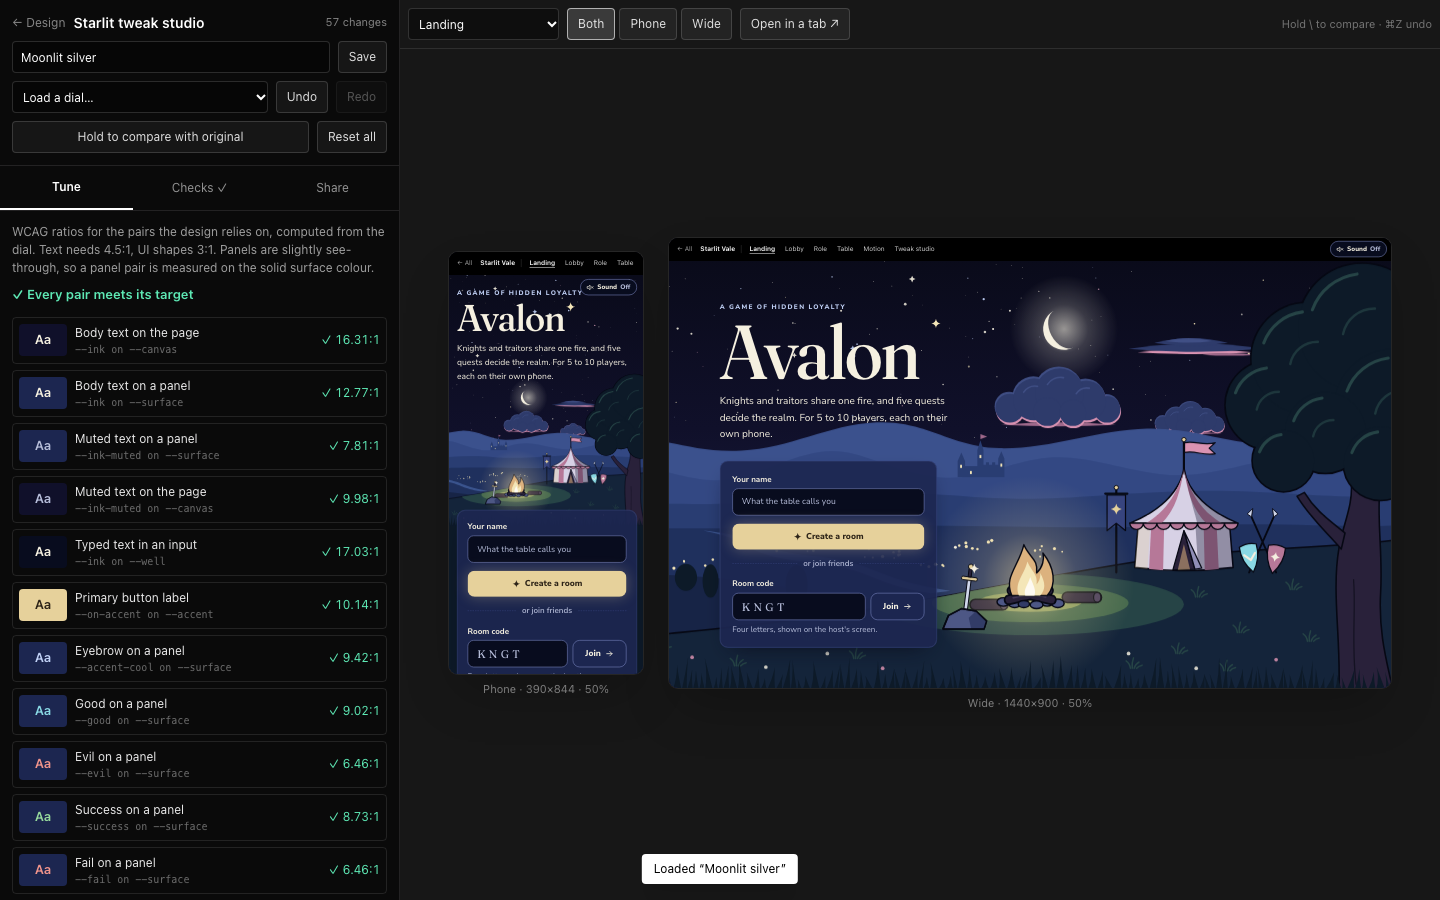
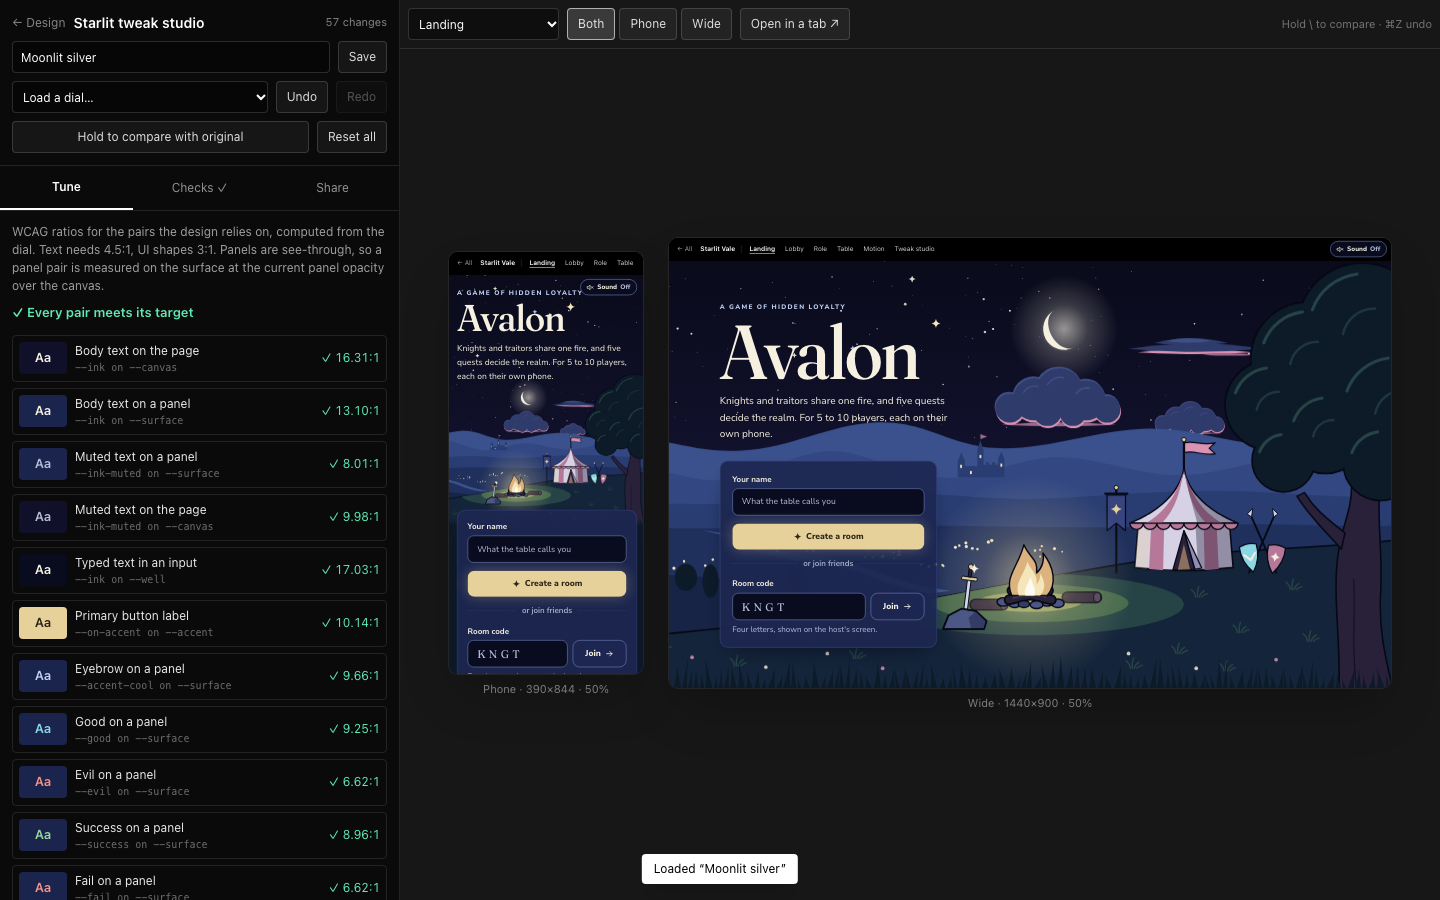
fix(design): harden the tweak studio's inputs and share links
- An emptied number box no longer writes an invalid value.
- A share link saves the dial it replaces, applies once and leaves the
  address; values that could break out of the stylesheet are dropped.
- Panel contrast is measured on the panel at its opacity over the canvas.
- e2e now covers sliders, ambient durations and tempo, share links and
  unsafe values, and passes against vite dev as well as the build.

Claude-Session: https://claude.ai/code/session_017rvMnjyMzxcMV82a8yoRz8

Changed region(s): [[0.0, 0.2489, 0.2812, 1.0]]

diff --git a/e2e/studio.e2e.ts b/e2e/studio.e2e.ts
@@ -24,6 +24,14 @@ async function themeVar(page: Page, name: string): Promise<string> {
   );
 }
 
+/** The generated stylesheet. toContainText cannot see inside a <style>. */
+function tweakCss(page: Page): Promise<string> {
+  return page.evaluate(
+    () =>
+      document.querySelector("style[data-starlit-tweaks]")?.textContent ?? "",
+  );
+}
+
 async function openStudio(page: Page): Promise<void> {
   await page.goto("/design/studio");
   await page.evaluate(() => localStorage.clear());
@@ -98,23 +106,22 @@ test("a proposed dial applies, keeps wide values separate, and travels in a link
     .selectOption({ label: "Storybook bold" });
   await expect(page.getByTestId("change-count")).not.toHaveText("0 changes");
 
-  // Storybook bold only enlarges seats at the wide breakpoint.
-  await expect.poll(() => themeVar(page, "--seat-size")).toBe("52px");
-  const wide = page.frame({ url: /\/design\/starlit/ });
-  const frames = page
-    .frames()
-    .filter((f) => f.url().includes("/design/starlit"));
-  const wideSeat = await Promise.all(
-    frames.map((f) =>
-      f.evaluate(() =>
-        getComputedStyle(document.querySelector(".theme-starlit")!)
-          .getPropertyValue("--seat-size")
-          .trim(),
-      ),
-    ),
-  );
-  expect(wide).toBeTruthy();
-  expect(wideSeat.sort()).toEqual(["52px", "76px"]);
+  // Storybook bold only enlarges seats at the wide breakpoint: the phone
+  // frame keeps 52px, the wide frame gets 76px.
+  const seatSizes = () =>
+    Promise.all(
+      page
+        .frames()
+        .filter((f) => f.url().includes("/design/starlit"))
+        .map((f) =>
+          f.evaluate(() =>
+            getComputedStyle(document.querySelector(".theme-starlit")!)
+              .getPropertyValue("--seat-size")
+              .trim(),
+          ),
+        ),
+    ).then((sizes) => sizes.sort());
+  await expect.poll(seatSizes).toEqual(["52px", "76px"]);
 
   // A share link opens the dial in a fresh browser profile.
   await page.getByRole("tab", { name: "Share" }).click();
@@ -149,4 +156,126 @@ test("the prototype is plain Starlit when the studio was never used", async ({
   await page.reload();
   await expect(page.locator("main").first()).toBeVisible();
   await expect(page.locator("style[data-starlit-tweaks]")).toHaveCount(0);
+});
+
+test("sliders and number boxes write valid values, and an emptied box is ignored", async ({
+  page,
+}) => {
+  await openStudio(page);
+  await page
+    .getByRole("searchbox", { name: "Search tokens" })
+    .fill("panel-opacity");
+  const row = page.locator('[data-token="--panel-opacity"]');
+  await row.getByRole("slider", { name: "Panel opacity" }).fill("60");
+  await expect.poll(() => themeVar(page, "--panel-opacity")).toBe("60%");
+
+  const box = row.getByRole("spinbutton", { name: "Panel opacity value" });
+  await box.fill("");
+  await expect.poll(() => themeVar(page, "--panel-opacity")).toBe("60%");
+  await box.fill("75");
+  await expect.poll(() => themeVar(page, "--panel-opacity")).toBe("75%");
+  await expect(
+    row.getByRole("slider", { name: "Panel opacity" }),
+  ).toBeVisible();
+});
+
+test("ambient motion keeps its durations and follows the tempo dial", async ({
+  page,
+}) => {
+  await openStudio(page);
+  const frame = page.frame({ url: /\/design\/starlit/ });
+  if (!frame) throw new Error("No preview frame");
+  const durations = () =>
+    frame.evaluate(() => {
+      const of = (selector: string) => {
+        const el = document.querySelector(selector);
+        return el ? getComputedStyle(el).animationDuration : "missing";
+      };
+      return {
+        shoot: of(".sl-shooting-star"),
+        drift: of(".sl-drift:not(.sl-drift--slow)"),
+        driftSlow: of(".sl-drift--slow"),
+        flame: of(".sl-flame:not(.sl-flame--inner)"),
+        glow: of(".sl-fire-glow"),
+      };
+    });
+  const before = await durations();
+  expect(before).toMatchObject({
+    shoot: "19s",
+    drift: "110s",
+    driftSlow: "160s",
+    flame: "1.3s",
+    glow: "3.4s",
+  });
+
+  // A twinkling star keeps its own duration (3 to 7.5s) at tempo 1.
+  const twinkle = await frame.evaluate(() => {
+    const el = document.querySelector<SVGElement>(".sl-twinkle");
+    return el
+      ? [
+          el.style.getPropertyValue("--twinkle-dur"),
+          getComputedStyle(el).animationDuration,
+        ]
+      : null;
+  });
+  expect(twinkle).not.toBeNull();
+  expect(twinkle?.[0]).toBe(twinkle?.[1]);
+
+  await page
+    .getByRole("searchbox", { name: "Search tokens" })
+    .fill("ambient-tempo");
+  await page
+    .locator('[data-token="--ambient-tempo"]')
+    .getByRole("spinbutton")
+    .fill("2");
+  await expect.poll(durations).toMatchObject({
+    shoot: "38s",
+    drift: "220s",
+    driftSlow: "320s",
+    flame: "2.6s",
+    glow: "6.8s",
+  });
+});
+
+test("a share link keeps the dial it replaces and applies only once", async ({
+  page,
+  context,
+}) => {
+  await openStudio(page);
+  await page
+    .getByRole("combobox", { name: "Load a preset" })
+    .selectOption({ label: "Hearthside" });
+  await page.getByRole("tab", { name: "Share" }).click();
+  await context.grantPermissions(["clipboard-read", "clipboard-write"]);
+  await page.getByRole("button", { name: "Copy share link" }).click();
+  const hearthside = await page.evaluate(() => navigator.clipboard.readText());
+
+  // Move on to another dial, then open the Hearthside link in this browser.
+  await page
+    .getByRole("combobox", { name: "Load a preset" })
+    .selectOption({ label: "Moonlit silver" });
+  const target = new URL(hearthside);
+  await page.goto(target.pathname + target.search);
+  await expect(page.locator("main").first()).toBeVisible();
+  await expect.poll(() => tweakCss(page)).toContain("--display-wonk: 1");
+  await expect.poll(() => page.url()).not.toContain("tweaks=");
+
+  const saved = await page.evaluate(() =>
+    localStorage.getItem("avalon:starlit-tweaks:saved"),
+  );
+  expect(saved).toContain("Moonlit silver (before a shared link");
+});
+
+test("unsafe values in a share link are dropped", async ({ page }) => {
+  await page.goto("/design/starlit");
+  await page.evaluate(() => localStorage.clear());
+  const evil = {
+    version: 1,
+    name: "x",
+    vars: { "--accent": "red;} body{display:none", "--ink": "#ff0000" },
+  };
+  const code = Buffer.from(JSON.stringify(evil)).toString("base64url");
+  await page.goto(`/design/starlit?tweaks=${code}`);
+  await expect.poll(() => tweakCss(page)).toContain("--ink: #ff0000");
+  expect(await tweakCss(page)).not.toContain("display");
 });

diff --git a/src/design/tweaks/state.ts b/src/design/tweaks/state.ts
@@ -10,6 +10,7 @@ import {
   NO_SHIFT,
   contrastRatio,
   isIdentityShift,
+  mixHex,
   normalizeHex,
   shiftHex,
   type ColorShift,
@@ -55,11 +56,24 @@ function isRecord(value: unknown): value is Record<string, unknown> {
   return typeof value === "object" && value !== null && !Array.isArray(value);
 }
 
+/**
+ * A token value that is safe to write into the generated stylesheet: it
+ * cannot end the declaration, open or close a block, or close the <style>.
+ * Dials arrive from share links, so this is checked on the way in and out.
+ */
+export function isSafeValue(value: string): boolean {
+  return value.trim() !== "" && !/[;{}<>]/.test(value);
+}
+
+function isTokenKey(key: string): boolean {
+  return /^--[\w-]+(@wide)?$/.test(key);
+}
+
 function stringRecord(value: unknown): Record<string, string> {
   if (!isRecord(value)) return {};
   const out: Record<string, string> = {};
   for (const [k, v] of Object.entries(value)) {
-    if (typeof v === "string" && k.startsWith("--")) out[k] = v;
+    if (typeof v === "string" && isTokenKey(k) && isSafeValue(v)) out[k] = v;
   }
   return out;
 }
@@ -224,6 +238,7 @@ export function buildCss(catalog: Catalog, state: TweakState): string {
   const every: string[] = [];
   const wide: string[] = [];
   for (const change of listChanges(catalog, state)) {
+    if (!isSafeValue(change.to)) continue;
     const line = `  ${change.token}: ${change.to};`;
     const def = catalog.get(change.token);
     if (change.scope === "wide") wide.push(line);
@@ -323,13 +338,35 @@ export interface ContrastResult {
   pass: boolean;
 }
 
+/**
+ * Panels are the surface colour at --panel-opacity over the page, so a panel
+ * pair is measured on that blend (over the canvas, the darkest the sky gets
+ * behind a panel is close to it).
+ */
+function panelOver(
+  catalog: Catalog,
+  state: TweakState,
+  surface: string,
+): string {
+  const opacity = Number.parseFloat(
+    resolveValue(catalog, state, "--panel-opacity") ?? "100",
+  );
+  const canvas = resolveValue(catalog, state, "--canvas");
+  if (!canvas || Number.isNaN(opacity)) return surface;
+  return mixHex(surface, canvas, Math.min(100, Math.max(0, opacity)) / 100);
+}
+
 export function checkContrast(
   catalog: Catalog,
   state: TweakState,
 ): ContrastResult[] {
   return CONTRAST_PAIRS.map((pair) => {
     const fgHex = resolveValue(catalog, state, pair.fg);
-    const bgHex = resolveValue(catalog, state, pair.bg);
+    const solid = resolveValue(catalog, state, pair.bg);
+    const bgHex =
+      pair.bg === "--surface" && solid
+        ? panelOver(catalog, state, solid)
+        : solid;
     const ratio = fgHex && bgHex ? contrastRatio(fgHex, bgHex) : null;
     return {
       label: pair.label,

diff --git a/src/design/tweaks/use-starlit-tweaks.ts b/src/design/tweaks/use-starlit-tweaks.ts
@@ -1,7 +1,13 @@
 import { useEffect, useMemo, useState } from "react";
 import { buildCatalog, readDeclarations, type Catalog } from "./catalog";
-import { DEFAULT_SKY, buildCss, decodeState, type SkyOptions } from "./state";
-import { setTweaks, useBypass, useTweaks } from "./store";
+import {
+  DEFAULT_SKY,
+  DEFAULT_STATE,
+  buildCss,
+  decodeState,
+  type SkyOptions,
+} from "./state";
+import { getTweaks, saveDial, setTweaks, useBypass, useTweaks } from "./store";
 
 /** The query parameter a share link carries the dial in. */
 export const SHARE_PARAM = "tweaks";
@@ -43,9 +49,29 @@ export function useStarlitTweaks(): { css: string; sky: SkyOptions } {
   const catalog = useCatalog(typeof document === "undefined" ? null : document);
 
   useEffect(() => {
-    const code = new URLSearchParams(window.location.search).get(SHARE_PARAM);
-    const shared = code ? decodeState(code) : null;
-    if (shared) setTweaks(shared);
+    // A share link applies its dial once. The dial it replaces is saved first
+    // (Share > Saved in this browser), and the parameter is removed so a
+    // reload does not apply it again over later changes.
+    const url = new URL(window.location.href);
+    const code = url.searchParams.get(SHARE_PARAM);
+    if (!code) return;
+    const shared = decodeState(code);
+    if (shared) {
+      const current = getTweaks();
+      if (
+        current !== DEFAULT_STATE &&
+        JSON.stringify(current) !== JSON.stringify(shared)
+      ) {
+        const stamp = new Date().toLocaleString();
+        saveDial({
+          ...current,
+          name: `${current.name} (before a shared link, ${stamp})`,
+        });
+      }
+      setTweaks(shared);
+    }
+    url.searchParams.delete(SHARE_PARAM);
+    window.history.replaceState(window.history.state, "", url);
   }, []);
 
   const css = useMemo(

diff --git a/src/design/tweaks/studio.tsx b/src/design/tweaks/studio.tsx
@@ -170,7 +170,10 @@ function Slider({
         className="h-7 w-16 rounded border border-white/15 bg-black/40 px-1.5 text-right text-[12px] text-white tabular-nums"
         step={step}
         value={value}
-        onChange={(e) => onChange(Number(e.target.value))}
+        onChange={(e) => {
+          const n = e.target.valueAsNumber;
+          if (Number.isFinite(n)) onChange(n);
+        }}
       />
       <span className="w-5 text-[11px] text-white/45">{suffix}</span>
     </label>
@@ -341,8 +344,8 @@ function ContrastTable({
     <div className="p-3">
       <p className="mb-2 text-[12px] text-white/60">
         WCAG ratios for the pairs the design relies on, computed from the dial.
-        Text needs 4.5:1, UI shapes 3:1. Panels are slightly see-through, so a
-        panel pair is measured on the solid surface colour.
+        Text needs 4.5:1, UI shapes 3:1. Panels are see-through, so a panel pair
+        is measured on the surface at the current panel opacity over the canvas.
       </p>
       <p
         className={`mb-3 text-[13px] font-semibold ${failing ? "text-rose-300" : "text-emerald-300"}`}

diff --git a/src/design/tweaks/tweaks.test.ts b/src/design/tweaks/tweaks.test.ts
@@ -239,6 +239,24 @@ describe("turning a dial into CSS", () => {
   });
 });
 
+describe("panel contrast", () => {
+  const catalog = themeCatalog();
+
+  it("measures panel pairs on the panel as it is drawn, at its opacity", () => {
+    const at = (opacity: string) =>
+      checkContrast(
+        catalog,
+        sanitizeState({ vars: { "--panel-opacity": opacity } }),
+      ).find((r) => r.label === "Muted text on a panel");
+    const solid = at("100%");
+    const clear = at("0%");
+    expect(solid?.bgHex).toBe(
+      resolveValue(catalog, DEFAULT_STATE, "--surface"),
+    );
+    expect(clear?.bgHex).toBe(resolveValue(catalog, DEFAULT_STATE, "--canvas"));
+  });
+});
+
 describe("proposed dials", () => {
   const catalog = themeCatalog();
 

diff --git a/src/design/tweaks/color.ts b/src/design/tweaks/color.ts
@@ -168,3 +168,12 @@ export function contrastRatio(fg: string, bg: string): number | null {
   const lb = luminance(b);
   return (Math.max(la, lb) + 0.05) / (Math.min(la, lb) + 0.05);
 }
+
+/** `a` at `amount` (0 to 1) over `b`, mixed in sRGB like color-mix(in srgb). */
+export function mixHex(a: string, b: string, amount: number): string {
+  const x = parseHex(a);
+  const y = parseHex(b);
+  if (!x || !y) return a;
+  const mix = (p: number, q: number) => p * amount + q * (1 - amount);
+  return toHex({ r: mix(x.r, y.r), g: mix(x.g, y.g), b: mix(x.b, y.b) });
+}

diff --git a/src/design/tweaks/controls.tsx b/src/design/tweaks/controls.tsx
@@ -103,7 +103,11 @@ function RangeControl({
         className={`${inputClass} w-[72px] text-right tabular-nums`}
         step={range.step}
         value={parsed.n}
-        onChange={(e) => onChange(`${e.target.value}${unit}`)}
+        onChange={(e) => {
+          // An emptied or half-typed box is not a value yet: keep the last one.
+          const n = e.target.valueAsNumber;
+          if (Number.isFinite(n)) onChange(`${n}${unit}`);
+        }}
       />
       <span className="w-6 text-[11px] text-white/50">{unit}</span>
     </div>

diff --git a/docs/design/starlit.md b/docs/design/starlit.md
@@ -436,7 +436,8 @@ to Claude. Code: `src/design/tweaks/`.
   opacity, highlight and border, fire and star glow, sky gradient stops,
   star and cloud visibility, horizon height, and every ambient animation
   duration with one `--ambient-tempo` multiplier. With no dial set, the
-  screenshots match the old ones pixel for pixel.
+  phone screenshots match the old ones pixel for pixel; the wide ones differ
+  only by the new "Tweak studio" link in the prototype nav.
 - **How it applies.** The dial lives in `localStorage`. The Starlit layout
   turns it into a `<style>` with a doubled `.theme-starlit` selector, and
   passes the sky options to `NightSky`. A token with a wide value gets its
